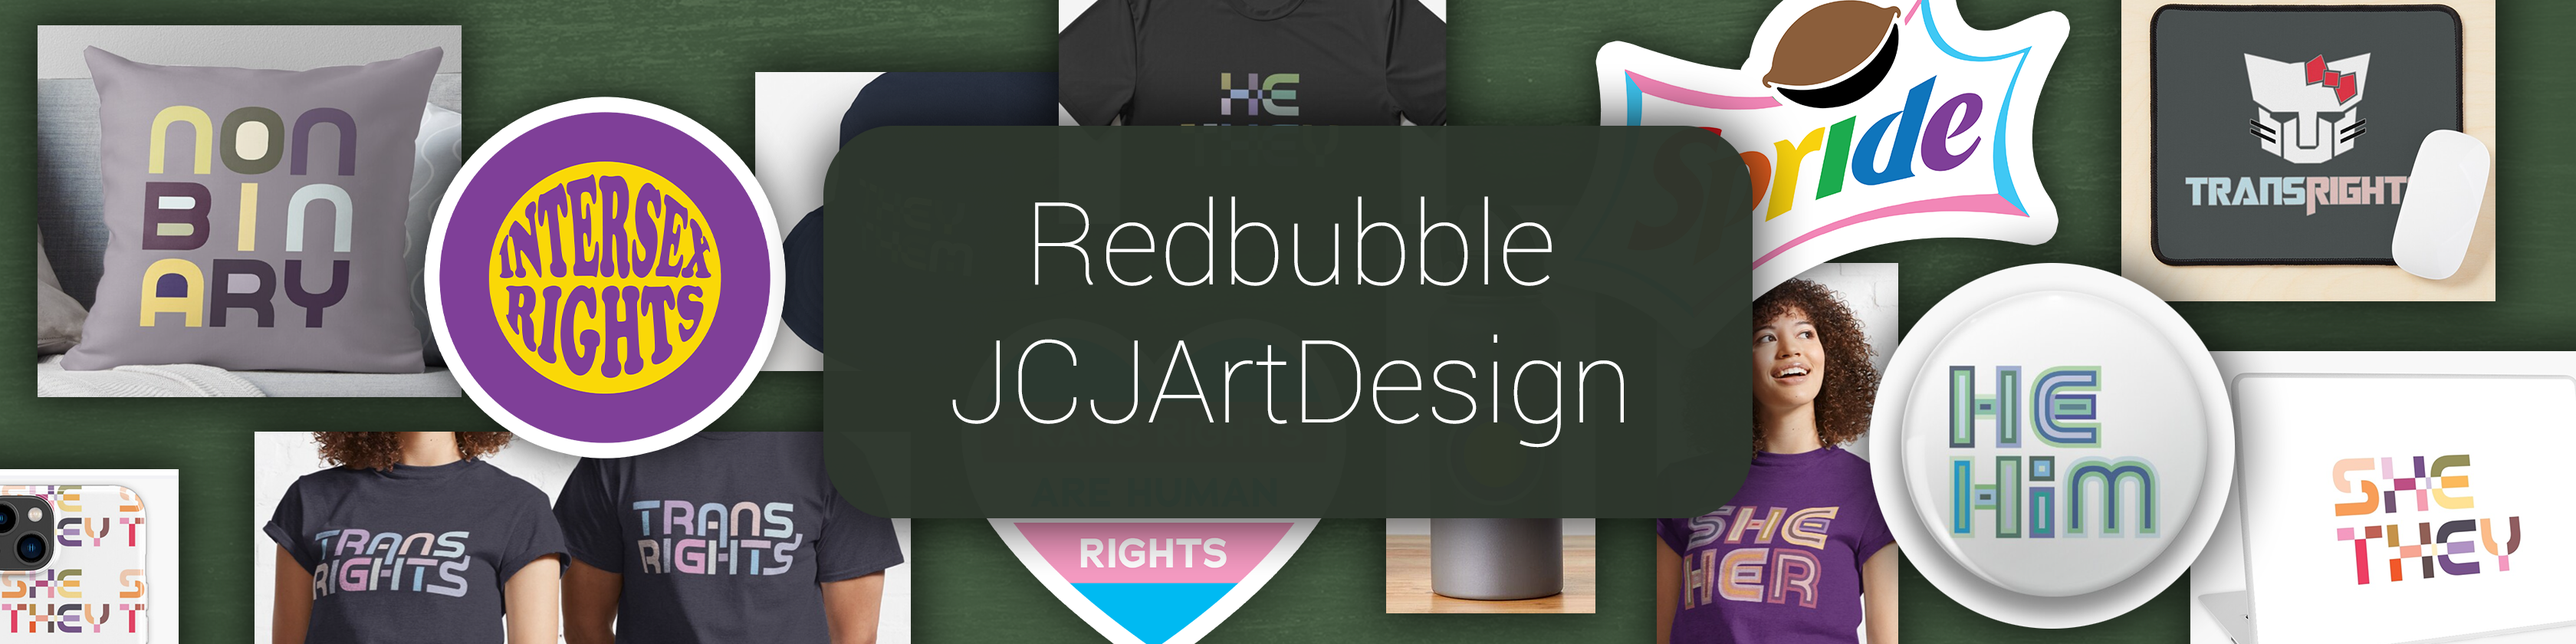
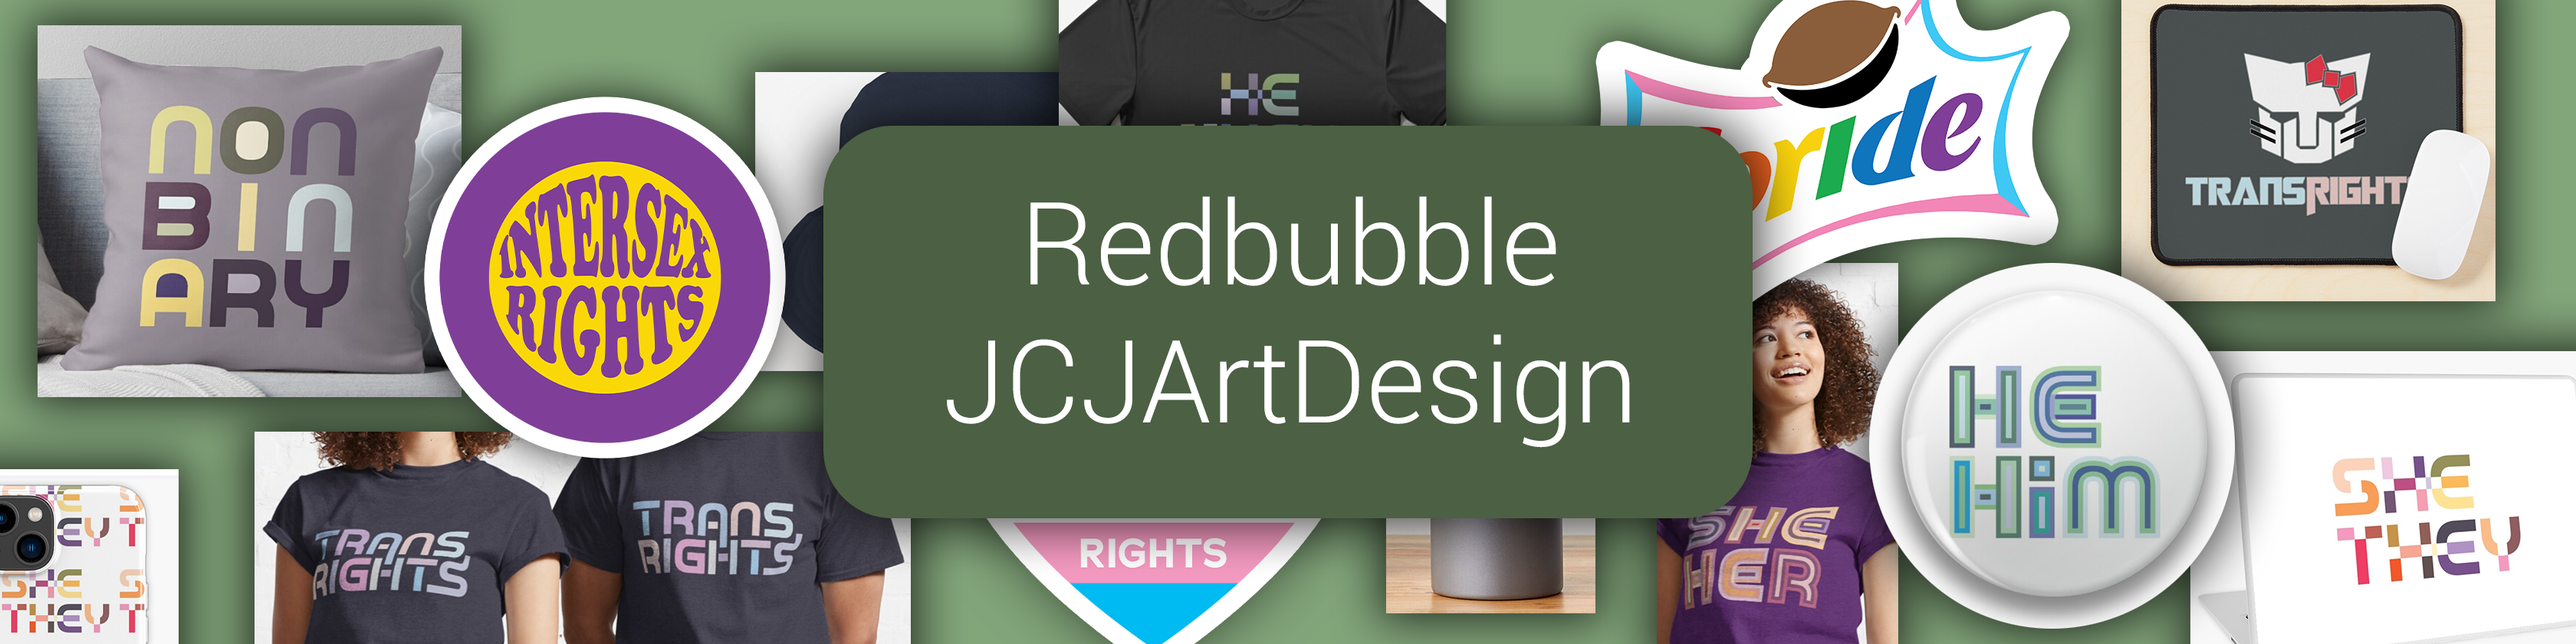
green

diff --git a/about.html b/about.html
@@ -73,7 +73,7 @@ function myFunction() {
 <!-- . . . . . . . . . . .  paragraph . . . . . . . . . . . . . . . -->
 <p>
 
-JCJ is a queer nonbinary artist from Utah. 
+JCJ is a queer nonbinary artist from Utah. Formerly known as Josh Jacobs. 
 They also go by the names JC, Jaspen, Jorts, queerjorts, and uncutjorts. 
 They graduated from Utah Valley University in Art & Design. 
 They started selling artwork in 2017 under the business name "Art Joshua Studio''. 
@@ -148,8 +148,37 @@ Cash App: $queerjorts
 		<a href="https://www.tiktok.com/@queerjorts/" target="_blank">
 		<img src="images/icons/tiktok.png" alt="Instagram link" /></a>
 			
-		<a href="https://gofund.me/7c76d202" target="_blank">
-		<img src="images/icons/gofundme.png" alt="gofundme link" /></a>
+		<!--<a href="https://gofund.me/7c76d202" target="_blank">
+		<img src="images/icons/gofundme.png" alt="gofundme link" /></a>-->
+	
+		<!--<a href="http://joshuajacobs.deviantart.com/" target="_blank">
+		<img src="images/icons/deviantart.png" alt="Deviantart link" /></a>-->
+		
+		
+		</figure>
+
+
+		<br>
+
+
+	<h3>uncutjorts</h3>
+
+	<!--    queerjorts - social media links    -->
+
+	<figure class="social">
+
+
+		<a href="https://www.instagram.com/uncutjorts/" target="_blank">
+		<img src="images/icons/instagram.png" alt="Instagram link" /></a>
+
+		<a href="https://twitter.com/uncutjorts" target="_blank">
+		<img src="images/icons/twitter.png" alt="Twitter link" /></a>
+			
+		<a href="https://www.tiktok.com/@uncutjorts/" target="_blank">
+		<img src="images/icons/tiktok.png" alt="Instagram link" /></a>
+			
+		<!--<a href="https://gofund.me/7c76d202" target="_blank">
+		<img src="images/icons/gofundme.png" alt="gofundme link" /></a>-->
 	
 		<!--<a href="http://joshuajacobs.deviantart.com/" target="_blank">
 		<img src="images/icons/deviantart.png" alt="Deviantart link" /></a>-->

diff --git a/styles.css b/styles.css
@@ -85,7 +85,7 @@ ul.topnav {
 	list-style-type: none;
 	padding: 0;
 	overflow: hidden;
-	background-color: #545;
+	background-color: #8a8;
 	font-family: Roboto;
 	padding-left: 5%;
 }
@@ -108,15 +108,15 @@ ul.topnav li a {
 }
 ul.topnav li.active a {
 	font-family: Roboto;
-	background-color: #757;
+	background-color: #574;
 }
 ul.topnav li a:hover {
 	font-family: Roboto;
-	background-color: #646;
+	background-color: #786;
 }
 ul.topnav li.active a:hover {
 	font-family: Roboto;
-	background-color: #646;
+	background-color: #786;
 }
 /* Hide the list item that contains the link that should open and close the topnav on small screens */
 ul.topnav li.icon {
@@ -689,7 +689,7 @@ ul.follow {
 /*._._._._._._._._._._ styling for the Footer here ._._._._._._._._._._*/
 footer {
 	clear: both;
-	background-color: rgb(157, 145, 162); 
+	background-color: #8a8; 
 	text-align: center;
 	color: white;
 }
@@ -700,7 +700,7 @@ footer a {
 	text-decoration: none;
 }
 footer a:hover {
-	color: #757;
+	color: #8a8;
 	color: white;
 	text-decoration: underline;
 }

diff --git a/index.html b/index.html
@@ -98,8 +98,8 @@ function myFunction() {
 		<a href="https://www.tiktok.com/@queerjorts/" target="_blank">
 		<img src="images/icons/tiktok.png" alt="tiktok link" /></a>
 		
-		<a href="https://gofund.me/7c76d202" target="_blank">
-		<img src="images/icons/gofundme.png" alt="gofundme link" /></a>
+		<!--<a href="https://gofund.me/7c76d202" target="_blank">
+		<img src="images/icons/gofundme.png" alt="gofundme link" /></a>-->
 	
 		<!--<a href="http://joshuajacobs.deviantart.com/" target="_blank">
 		<img src="images/icons/deviantart.png" alt="Deviantart link" /></a>-->
